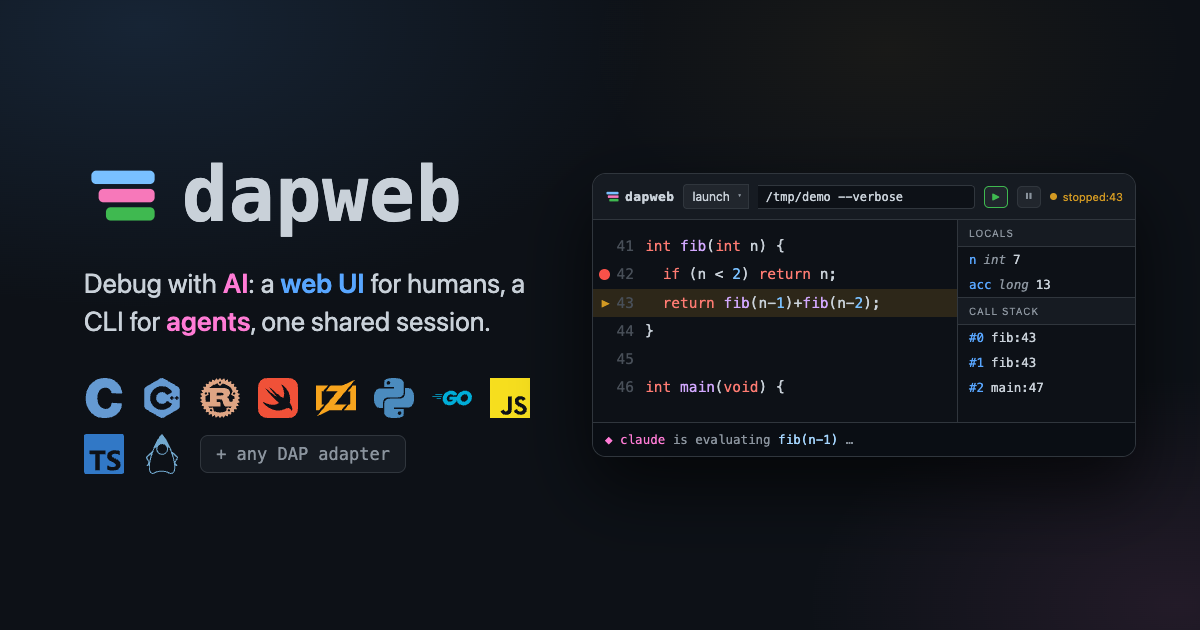
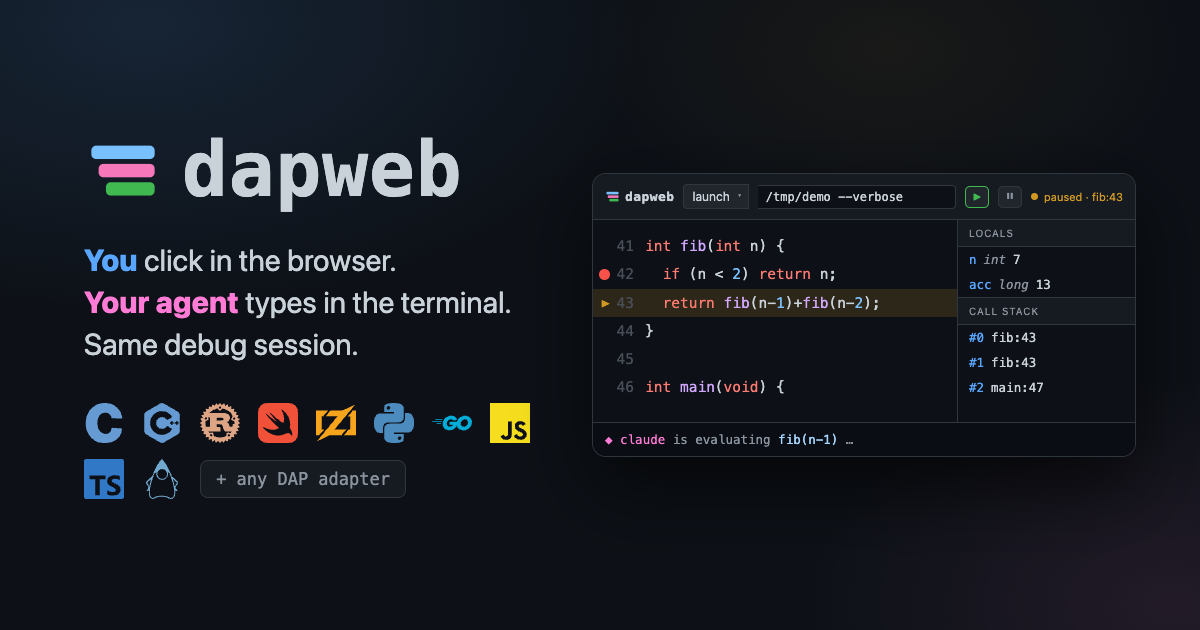
og card: one colour per actor, you in blue and your agent in pink, three short lines

Changed region(s): [[0.0617, 0.2111, 0.4317, 0.573], [0.0617, 0.6032, 0.4625, 0.8143], [0.8017, 0.3016, 0.925, 0.3317]]

diff --git a/src/web/ui/og-card.html b/src/web/ui/og-card.html
@@ -42,9 +42,9 @@
           font-family: var(--mono); line-height: 1; display: flex; align-items: center; gap: 20px; }
   .moth { width: 78px; height: 78px; flex: none; }
   .moth-sm { width: 15px; height: 15px; flex: none; }
-  .tag { font-size: 27px; line-height: 1.42; margin-top: 30px; color: var(--fg); }
-  .tag b { color: var(--accent); font-weight: 600; }
-  .tag .m { color: var(--agent); font-weight: 600; }
+  .tag { font-size: 30px; line-height: 1.4; margin-top: 30px; color: var(--fg); }
+  .tag b { color: var(--accent); font-weight: 800; }
+  .tag .m { color: var(--agent); font-weight: 800; }
   /* Language logos, not adapter names: at unfurl size a word dies but a mark
      survives, and colour alone reads as "many languages". */
   .langs { margin-top: 38px; display: flex; flex-wrap: wrap; align-items: center;
@@ -112,8 +112,9 @@
         <rect x="9" y="21" width="20" height="5.5" rx="2" fill="var(--r-stack)"/>
       </svg>dapweb</div>
     <div class="tag">
-      Debug with <span class="m">AI</span>: a <b>web UI</b> for humans, a CLI
-      for <span class="m">agents</span>, one shared session.
+      <b>You</b> click in the browser.<br>
+      <span class="m">Your agent</span> types in the terminal.<br>
+      Same debug session.
     </div>
     <div class="langs">
       <svg class="lg" viewBox="0 0 24 24" aria-label="C"><path fill="#659ad2" d="M16.5921 9.1962s-.354-3.298-3.627-3.39c-3.2741-.09-4.9552 2.474-4.9552 6.14 0 3.6651 1.858 6.5972 5.0451 6.5972 3.184 0 3.5381-3.665 3.5381-3.665l6.1041.365s.36 3.31-2.196 5.836c-2.552 2.5241-5.6901 2.9371-7.8762 2.9201-2.19-.017-5.2261.034-8.1602-2.97-2.938-3.0101-3.436-5.9302-3.436-8.8002 0-2.8701.556-6.6702 4.047-9.5502C7.444.72 9.849 0 12.254 0c10.0422 0 10.7172 9.2602 10.7172 9.2602z"/></svg>
@@ -141,7 +142,7 @@
       <span class="inp">/tmp/demo --verbose</span>
       <span class="btn go">▶</span>
       <span class="btn">⏸</span>
-      <span class="st"><i></i>stopped:43</span>
+      <span class="st"><i></i>paused · fib:43</span>
     </div>
     <div class="body">
       <div class="code">
